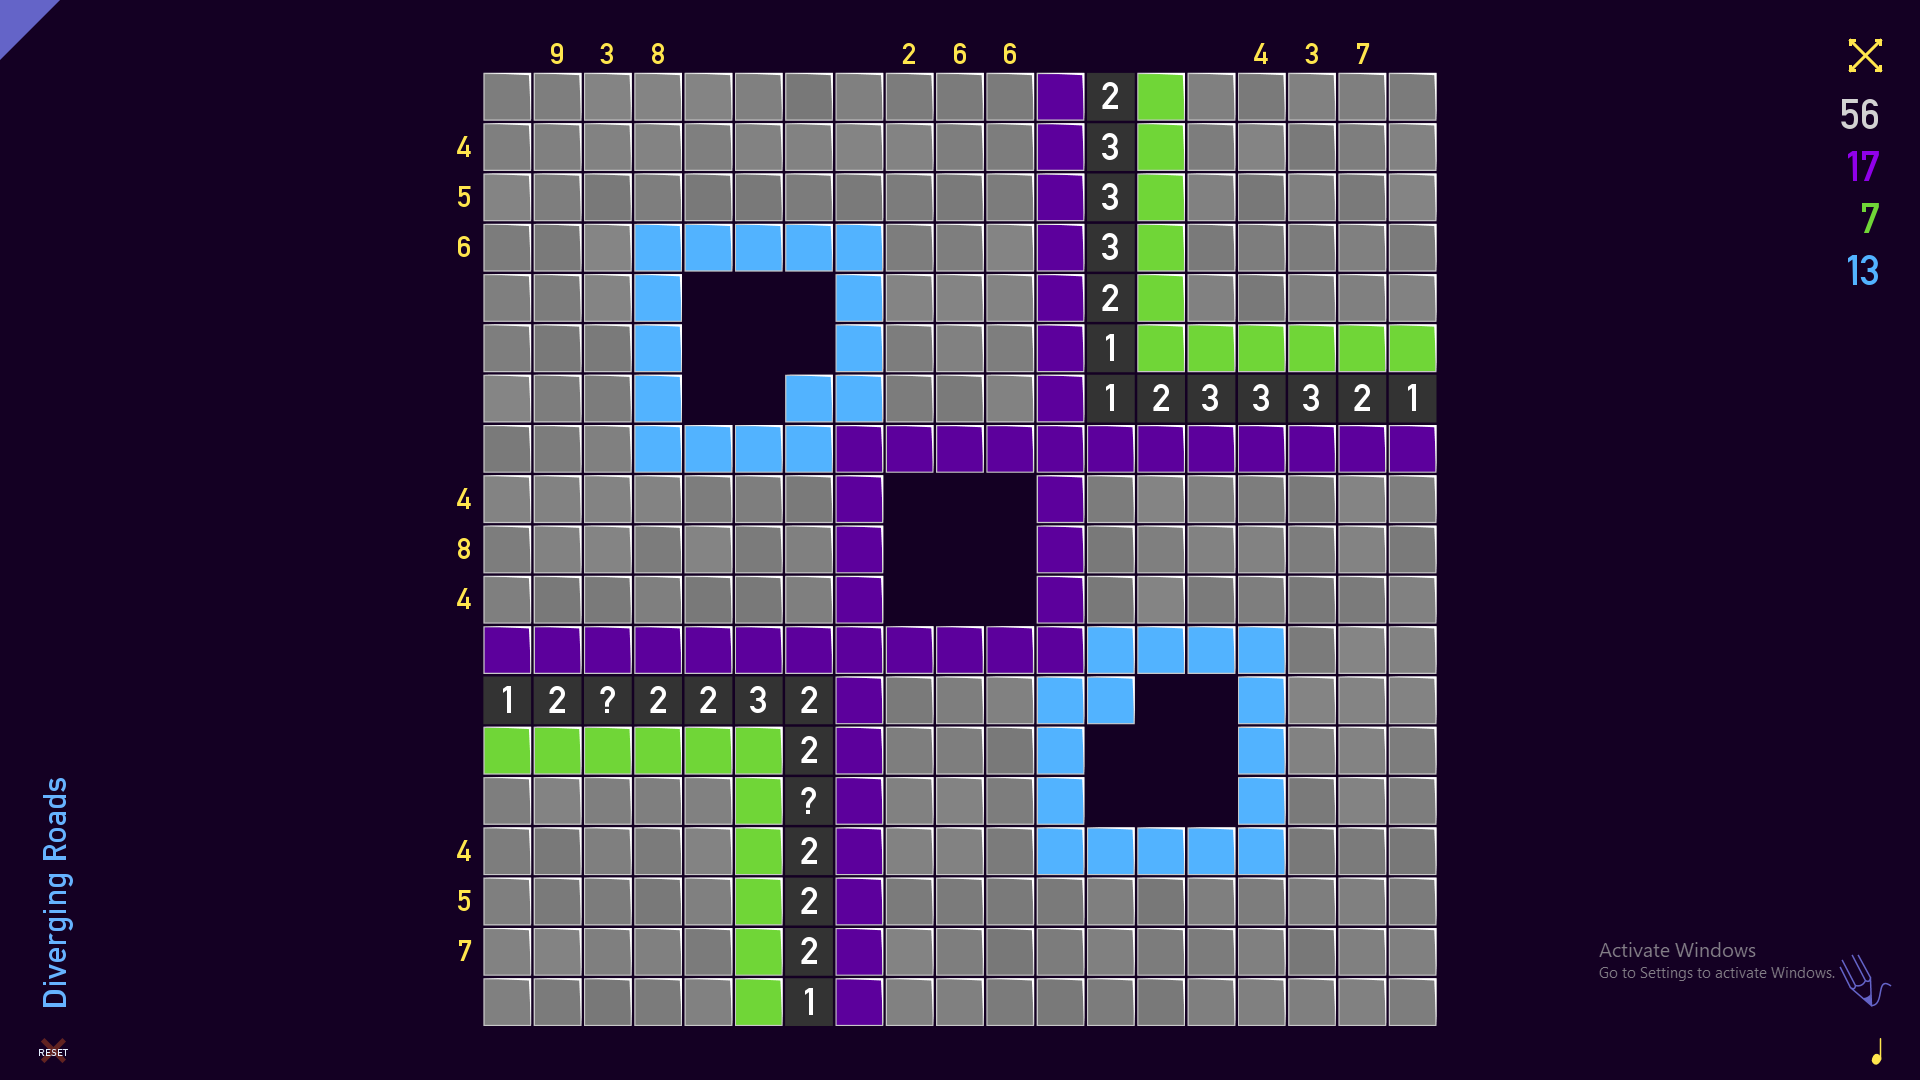
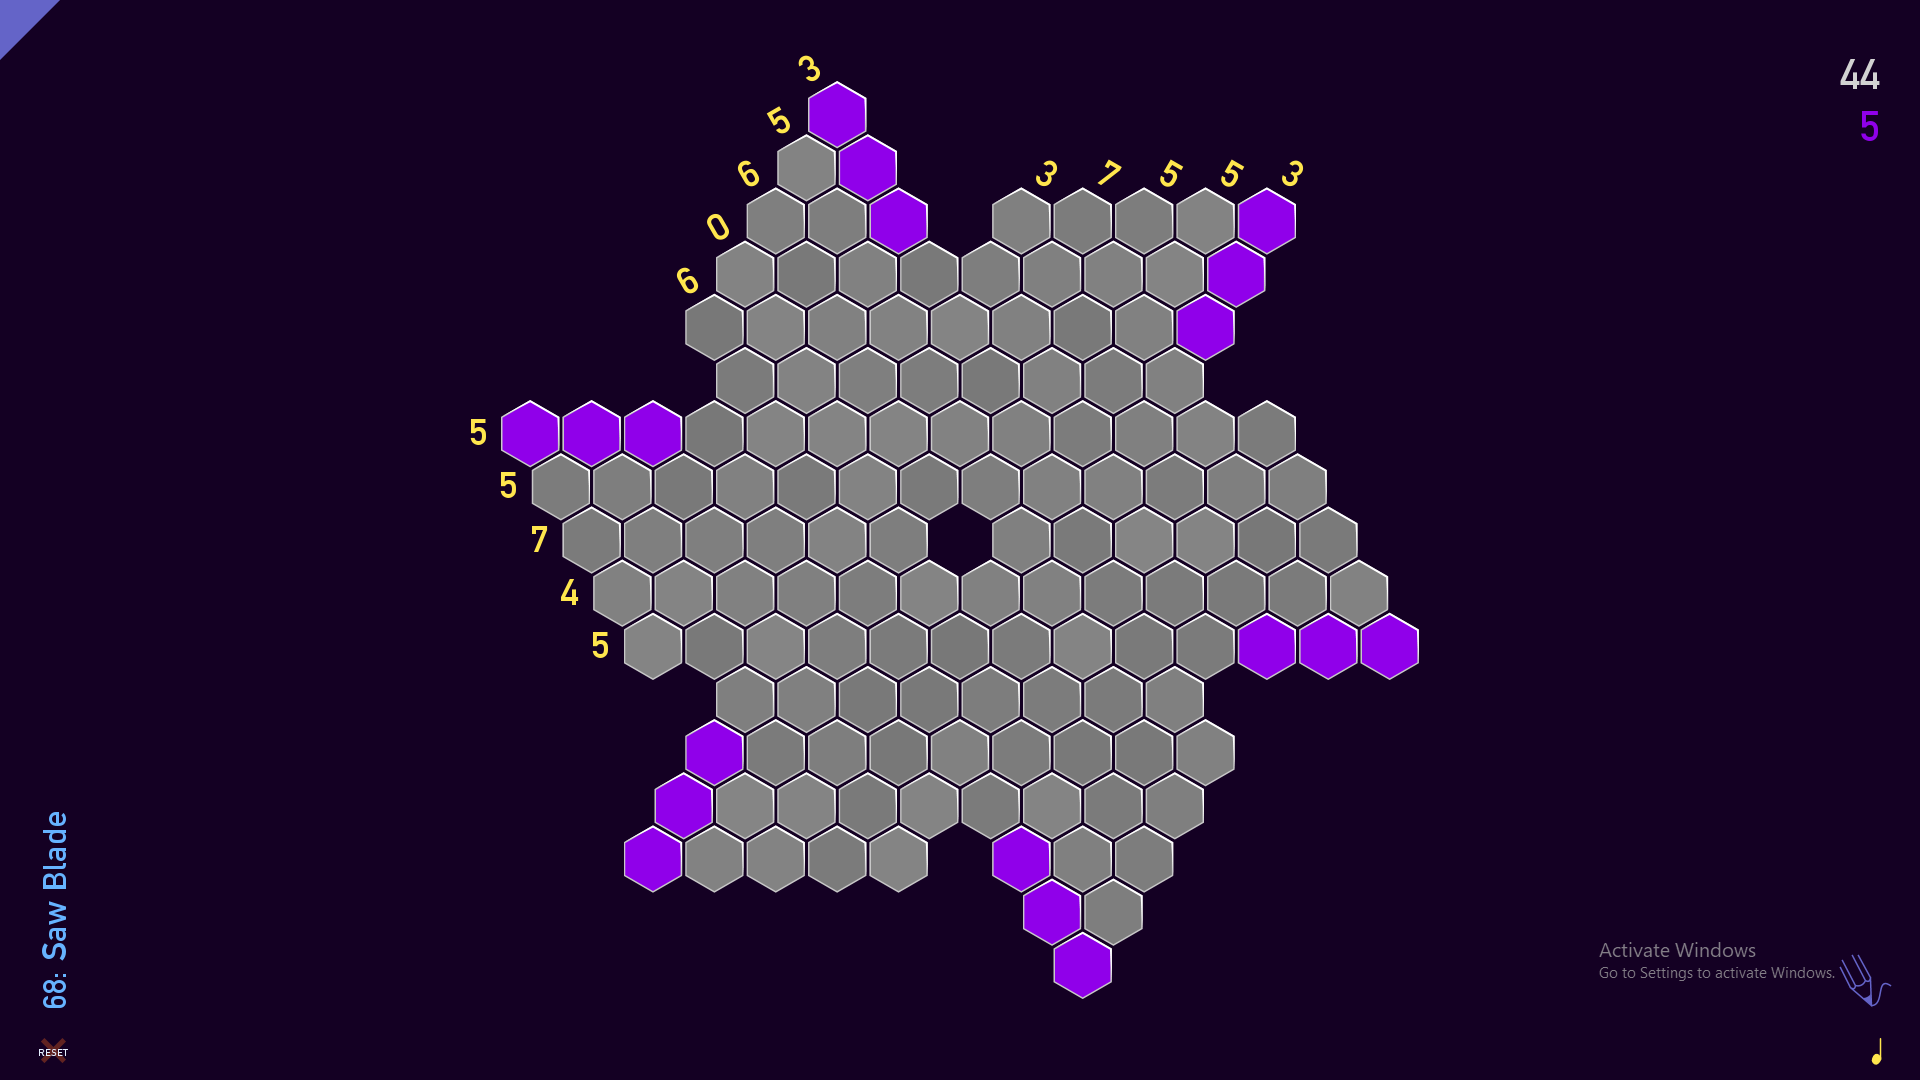
More refactoring, moved board_list to new datatype called BoardList and point_set, tile_set, and yellow_number_set to that datatype as well

diff --git a/Runner.py b/Runner.py
@@ -1,4 +1,4 @@
-from operator import itemgetter, methodcaller
+from operator import methodcaller
 
 import numpy as np
 
@@ -8,32 +8,14 @@ import cv2
 
 import ProjectEnums
 from DataTypes.Board import Board
+from DataTypes.BoardList import BoardList
 from DataTypes.Point import Point
 from DataTypes.Tile import Tile
 from DataTypes.YellowNumber import YellowNumber
-from ProjectEnums import CommonRGBColors, CommonGrayscaleColors
-
-def add_to_set(board_list, y, x, outer_set, set_type):
-    """IDK right now how to explain this right now, give it a day or 400"""
-    surrounding_pixels = set()
-    for y_off in range(-1, 2):
-        for x_off in range(-1, 2):
-            if (x_off == 0 or y_off == 0) and not (x_off == 0 and y_off == 0):
-                if (board_list[y + y_off][x + x_off] is not None) and board_list[y + y_off][x + x_off].__class__ == set_type:
-                    surrounding_pixels.add(board_list[y + y_off][x + x_off])
-    if len(surrounding_pixels) == 0:
-        outer_set.add(set_type(board_list, y, x))
-    elif len(surrounding_pixels) == 1:
-        surrounding_pixels.pop().add_coord(y, x)
-    else:
-        max(surrounding_pixels, key=methodcaller("get_size")).add_coord(y, x)
-        for pixel in surrounding_pixels:
-            for other_pixel in surrounding_pixels:
-                if other_pixel != pixel:
-                    pixel.add_adjacent(other_pixel)
+from ProjectEnums import CommonRGBColors
 
 def clean_up_set(board_list, set_to_clean, set_type):
-    """IDK right now how to explain this right now, give it a day or 400"""
+    """Consolidates adjacent objects that are both set type in board list by setting coords of the smaller one to be the larger one"""
     while (sum([len(set_obj.adjacent) for set_obj in set_to_clean]) / len(set_to_clean)) != 0:
         print(f'--{len(set_to_clean)} {set_type.__name__} remain')
         print(f'--average number of adjacent {set_type.__name__}s per {set_type.__name__}: {sum([len(set_obj.adjacent) for set_obj in set_to_clean]) / len(set_to_clean)}')
@@ -59,7 +41,8 @@ def walk_to_next_tile(y, x, y_off, x_off, board_list, current_tile: Tile):
     """uses raytracing to find if a tile is adjacent to another tile at a given point"""
     if board_list[y + y_off][x + x_off] is not None:
         return
-    for off_off in range(2,6):
+    #if else is in here cause level 40's gaps between tiles were too large
+    for off_off in range(2,8 if (x_off == 0 or y_off == 0) else 6):
         if board_list[y + (y_off * off_off)][x + (x_off * off_off)].__class__ == Tile:
             current_tile.graph_node.add_node(board_list[y + (y_off * off_off)][x + (x_off * off_off)].graph_node)
         elif board_list[y + (y_off * off_off)][x + (x_off * off_off)] is not None:
@@ -70,7 +53,7 @@ def find_all_colors(tile_set) -> set:
     for tile in tile_set:
         tile.find_majority_color(board_data.image)
     for tile in tile_set:
-        if not tile.revealed:
+        if not tile.graph_node.revealed:
             colors.add(tile.color)
     return colors
 
@@ -79,68 +62,54 @@ if __name__ == '__main__':
     image: np.ndarray = ImageStuff.get_screenshot_on_key_press()
     print("screenshot taken, starting analysis")
     board_data = Board(image)
-    edge_image: np.ndarray = board_data.binary_image
-    board_list = [[None for x in range(edge_image.shape[1])] for y in range(edge_image.shape[0])]
+    board_list = BoardList(board_data.image.shape)
 
-    yellow_number_set: set[YellowNumber] = set()
-    for y in range(1, board_data.binary_image.shape[0] - 1):
-        for x in range(1, board_data.binary_image.shape[1] - 1):
-            if ImageStuff.color_equal(board_data.image[y][x], CommonRGBColors.yellow.value):
-                add_to_set(board_list = board_list, y = y, x = x, outer_set = yellow_number_set, set_type = YellowNumber)
+    board_list.find_all_yellow_numbers(board_data = board_data)
     for do_number_of_times in range(3):
-        for yellow_number in yellow_number_set:
+        for yellow_number in board_list.yellow_number_set:
             yellow_number.expand(board_data.image)
-    if len(yellow_number_set) > 0:
+    if len(board_list.yellow_number_set) > 0:
         print("-cleaning yellow_numbers")
-        clean_up_set(board_list = board_list, set_to_clean= yellow_number_set, set_type = YellowNumber)
+        clean_up_set(board_list = board_list.board_list, set_to_clean= board_list.yellow_number_set, set_type = YellowNumber)
         print("-yellow_numbers cleaned")
-        print(f'{len(yellow_number_set)} yellow numbers in board')
-        for yellow_number in yellow_number_set:
+        print(f'{len(board_list.yellow_number_set)} yellow numbers in board')
+        for yellow_number in board_list.yellow_number_set:
             for coord in yellow_number.coords:
                 board_data.binary_image[coord[0]][coord[1]] = ProjectEnums.CommonGrayscaleColors.BACKGROUND.value
     cv2.imwrite("Images/cleaned_edge_image.png", board_data.binary_image)
 
-    point_set = set()
-    tile_set = set()
-
     print("finding points")
     board_data.create_point_image()
     print("points found")
-    point_image = board_data.points_image
-    cv2.imwrite("Images/point_image.png", point_image)
+    cv2.imwrite("Images/point_image.png", board_data.points_image)
 
-    new_tile = True
-    for y in range(1, point_image.shape[0] - 1):
-        for x in range(1, point_image.shape[1] - 1):
-            if ImageStuff.color_equal(point_image[y][x], CommonRGBColors.point.value):
-                add_to_set(board_list = board_list, y = y, x = x, outer_set = point_set, set_type = Point)
-            elif ImageStuff.color_equal(point_image[y][x], CommonRGBColors.tile.value):
-                add_to_set(board_list = board_list, y = y, x = x, outer_set = tile_set, set_type = Tile)
+    board_list.find_all_tiles(board_data = board_data)
+    board_list.find_all_points(board_data = board_data)
 
     print("cleaning points and tiles")
     print("-cleaning tiles")
-    clean_up_set(board_list = board_list, set_to_clean= tile_set, set_type = Tile)
+    clean_up_set(board_list = board_list.board_list, set_to_clean= board_list.tile_set, set_type = Tile)
     print("-tiles cleaned")
     print("-cleaning points")
-    clean_up_set(board_list = board_list, set_to_clean= point_set, set_type = Point)
+    clean_up_set(board_list = board_list.board_list, set_to_clean= board_list.point_set, set_type = Point)
     print("-points cleaned")
-    print(f'{len(tile_set)} tiles and {len(point_set)} points in board')
-    Debug.create_board_list_debug_image("Images/debug_image.png", point_image, board_list)
+    print(f'{len(board_list.tile_set)} tiles and {len(board_list.point_set)} points in board')
+    Debug.create_board_list_debug_image("Debug_images/board_list_debug_image.png", board_data.points_image, board_list.board_list)
 
-    color_set = find_all_colors(tile_set)
+    color_set = find_all_colors(board_list.tile_set)
 
     print("creating graph from tile set")
     graph_node_set = set()
     if board_data.point_based_adjacency:
         print("-using point based adjacency")
-        for point in point_set:
+        for point in board_list.point_set:
             for coord in point.coords:
                 for y_off in range(-1, 2):
                     for x_off in range(-1, 2):
                         if not (x_off == 0 and y_off == 0):
-                            if board_list[coord[0] + y_off][coord[1] + x_off].__class__ == Tile:
-                                point.adjacent_tiles.add(board_list[coord[0] + y_off][coord[1] + x_off])
-        for point in point_set:
+                            if board_list.board_list[coord[0] + y_off][coord[1] + x_off].__class__ == Tile:
+                                point.adjacent_tiles.add(board_list.board_list[coord[0] + y_off][coord[1] + x_off])
+        for point in board_list.point_set:
             for tile in point.adjacent_tiles:
                 graph_node_set.add(tile.graph_node)
                 for other_tile in point.adjacent_tiles:
@@ -149,12 +118,11 @@ if __name__ == '__main__':
                         other_tile.graph_node.add_node(tile.graph_node)
     else:
         print("-using non-point based adjacency")
-        for tile in tile_set:
+        for tile in board_list.tile_set:
             graph_node_set.add(tile.graph_node)
             for coord in tile.coords:
                 for y_off in range(-1, 2):
                     for x_off in range(-1, 2):
                         if not (x_off == 0 and y_off == 0):
-                            walk_to_next_tile(coord[0], coord[1], y_off, x_off, board_list, tile)
+                            walk_to_next_tile(coord[0], coord[1], y_off, x_off, board_list.board_list, tile)
     print("graph created")
-    Debug.see_node_connections(tile_set, ImageStuff.remove_mine_counts(board_data.points_image, CommonRGBColors.white.value))

diff --git a/DataTypes/BoardList.py b/DataTypes/BoardList.py
@@ -1,0 +1,117 @@
+from functools import singledispatch, singledispatchmethod, wraps
+from operator import methodcaller
+
+import ImageStuff
+from DataTypes.Board import Board
+from DataTypes.Point import Point
+from DataTypes.Tile import Tile
+from DataTypes.YellowNumber import YellowNumber
+from ProjectEnums import CommonRGBColors
+
+
+class BoardList:
+    def __init__(self, shape: tuple[int, int, int] | tuple[int, int]):
+        """TODO: WRITE THIS DOCSTR"""
+        #nah that docstr is never getting written >:3
+        self.board_list = [[None for x in range(shape[1])] for y in range(shape[0])]
+        self.yellow_number_set: set[YellowNumber] = set()
+        self.point_set: set[Point] = set()
+        self.tile_set: set[Tile] = set()
+
+    def find_all_in_image(self,image, obj_color, outer_set, set_type):
+        """finds all obj_color in image and maps it onto board_list with type set_type"""
+        for y in range(len(self.board_list)):
+            for x in range(len(self.board_list[0])):
+                if ImageStuff.color_equal(image[y][x], obj_color):
+                    self.add_to_set(y = y, x = x, outer_set = outer_set, set_type = set_type)
+
+    def find_all_yellow_numbers(self, board_data: Board):
+        """
+        | goes through board_data.image and finds all yellow numbers in it
+        |
+        | (this is just a find_all_in_image call but with preset values)"""
+        self.find_all_in_image(image = board_data.image, obj_color = CommonRGBColors.yellow.value, outer_set = self.yellow_number_set, set_type = YellowNumber)
+
+    def find_all_tiles(self, board_data: Board):
+        """
+        | goes through board_data.points_image and finds all tiles in it
+        |
+        | (this is just a find_all_in_image call but with preset values)"""
+        self.find_all_in_image(image = board_data.points_image, obj_color = CommonRGBColors.tile.value, outer_set = self.tile_set, set_type = Tile)
+
+    def find_all_points(self, board_data: Board):
+        """
+        | goes through board_data.points_image and finds all points in it
+        |
+        | (this is just a find_all_in_image call but with preset values)"""
+        self.find_all_in_image(image = board_data.points_image, obj_color = CommonRGBColors.point.value, outer_set = self.point_set, set_type = Point)
+
+    def add_to_set(self, y, x, outer_set, set_type):
+        """| Adds a new object of set_type to the outer_set if it is not next to another object of set_type
+           |
+           | if it is next to another object of set type it adds that coord to that object"""
+        surrounding_pixels = set()
+        for y_off in range(-1, 2):
+            for x_off in range(-1, 2):
+                if (x_off == 0 or y_off == 0) and not (x_off == 0 and y_off == 0):
+                    if (self.get_coord({"x": x + x_off, "y": y + y_off}) is not None) and self.get_coord({"x": x + x_off, "y": y + y_off}).__class__ == set_type:
+                        surrounding_pixels.add(self.get_coord({"x": x + x_off, "y": y + y_off}))
+        if len(surrounding_pixels) == 0:
+            outer_set.add(set_type(self.board_list, y, x))
+        elif len(surrounding_pixels) == 1:
+            surrounding_pixels.pop().add_coord(y, x)
+        else:
+            max(surrounding_pixels, key=methodcaller("get_size")).add_coord(y, x)
+            for pixel in surrounding_pixels:
+                for other_pixel in surrounding_pixels:
+                    if other_pixel != pixel:
+                        pixel.add_adjacent(other_pixel)
+
+    @singledispatchmethod
+    def get_coord(self, coord:list[int]):
+        """
+        | implementation 1:
+        | inputs = (coord: list[int], thing: Any)
+        | gets the point at y = coord[0],x = coord[1] in board list
+        |
+        | implementation 2:
+        | inputs = (y: int, x: int)
+        | gets the point at y = y,x = x in board list
+        |
+        | implementation 3:
+        | inputs = (coord: dict[y: int, x: int])
+        | gets the point at y = coord["y"],x = coord["x"] in board list"""
+        return self.board_list[coord[0]][coord[1]]
+
+    @get_coord.register
+    def _(self, coord: dict):
+        return self.board_list[coord["y"]][coord["x"]]
+
+    @get_coord.register
+    def _(self, y:int, x: int):
+        return self.board_list[y][x]
+
+
+    @singledispatchmethod
+    def set_coord(self, coord: list[int], thing):
+        """
+        | implementation 1:
+        | inputs = (coord: list[int], thing: Any)
+        | sets the point at y = coord[0],x = coord[1] in board list to thing
+        |
+        | implementation 2:
+        | inputs = (y: int, x: int , thing: Any)
+        | sets the point at y = y,x = x in board list to thing
+        |
+        | implementation 3:
+        | inputs = (coord: dict[y: int, x: int] , thing: Any)
+        | sets the point at y = coord["y"],x = coord["x"] in board list to thing"""
+        self.board_list[coord[0]][coord[1]] = thing
+
+    @set_coord.register
+    def _(self, y: int, x: int, thing):
+        self.board_list[y][x] = thing
+
+    @set_coord.register
+    def _(self, coord: dict, thing):
+        self.board_list[coord["y"]][coord["x"]] = thing

diff --git a/DataTypes/Tile.py b/DataTypes/Tile.py
@@ -1,4 +1,7 @@
-import GraphNode
+import numpy as np
+
+from DataTypes import GraphNode
+
 
 class Tile:
     def __init__(self, board_list, y, x):
@@ -11,7 +14,6 @@ class Tile:
         self.coords.append([y, x])
         self.graph_node: GraphNode.Node = GraphNode.Node(self)
         self.color = None
-        self.revealed = False
 
     def add_coord(self, y, x):
         self.board_list[y][x] = self
@@ -36,24 +38,24 @@ class Tile:
                     self.coords.append([coord[0], coord[1]])
                     self.size += 1
 
-    def find_majority_color(self, image):
+    def find_majority_color(self, image: np.ndarray):
         color_map: dict[str, int] = dict()
         for coord in self.coords:
             if str(image[coord[0]][coord[1]]) not in color_map.keys():
                 color_map.update({str(image[coord[0]][coord[1]]): 0})
             color_map[str(image[coord[0]][coord[1]])] += 1
-            if color_map[str(image[coord[0]][coord[1]])] > len(self.coords)/2:
+            #if we have looked at a quarter of the tile we already will know the most prevalent color
+            if sum(color_map.values()) > (image.shape[0] * image.shape[1])/4:
                 break
-        biggest_color = ["", 0]
-        for color in color_map.keys():
-            if color_map[color] > biggest_color[1]:
-                biggest_color[0] = color
-                biggest_color[1] = color_map[color]
-        color_list = [int(num) for num in biggest_color[0].replace("[","").replace("]","").split()]
+        biggest_color = max({color_map[key]: key for key in color_map.keys()}.items())[1]
+        color_list = [int(num) for num in biggest_color.replace("[","").replace("]","").split()]
+        #pre-revealed tiles are always colored [51,51,51]
         if color_list == [51, 51, 51]:
             self.color = "51, 51, 51"
-            self.revealed = True
+            self.graph_node.reveal()
+        #every other tile where the colors are all the same will always be gray but the actual values in the gray vary on a per-tile basis so we need to do this
         elif color_list[0] == color_list[1] == color_list[2]:
             self.color = "120, 120, 120"
+        #all other colors
         else:
             self.color = f'{color_list[0]}, {color_list[1]}, {color_list[2]}'

diff --git a/Debug.py b/Debug.py
@@ -48,4 +48,5 @@ def see_node_connections(tile_list, image: np.ndarray):
             for node in graph_node.connected_nodes:
                 for coord in node.node_tile.coords:
                     image_copy[coord[0]][coord[1]] = CommonRGBColors.debug_tile.value
-            cv2.imwrite(f'Debug_images/Adjacency_images/{tile.coords[0][0]}_{tile.coords[0][1]}_adjacency.png', image_copy)
+            cv2.imshow("image", image_copy)
+            cv2.waitKey(100000)

diff --git a/DataTypes/GraphNode.py b/DataTypes/GraphNode.py
@@ -5,6 +5,10 @@ class Node:
     def __init__(self, tile):
         self.connected_nodes: set[Node] = set()
         self.node_tile: Tile = tile
+        self.revealed = False
 
     def add_node(self, new_node):
         self.connected_nodes.add(new_node)
+
+    def reveal(self):
+        self.revealed = True

diff --git a/DataTypes/Point.py b/DataTypes/Point.py
@@ -1,4 +1,3 @@
-import GraphNode
 from DataTypes.Tile import Tile
 
 
